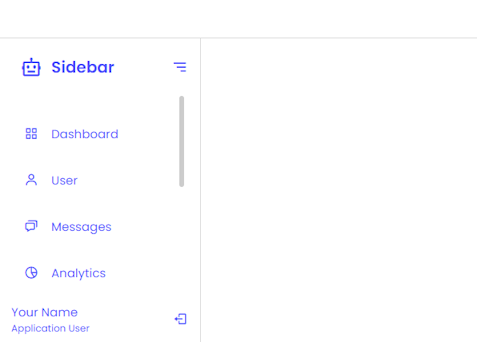
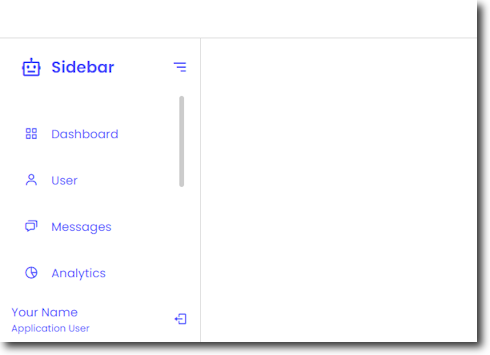
Fix Readme styling.

diff --git a/Readme.md b/Readme.md
@@ -6,8 +6,6 @@ without relying on any specifc framework.
 It applies a simple header element with left sidebar and centre content region.
 Reasonably standard starting point for many dashboards and SPA applications.
 
-<style> img{ box-shadow: 3px 3px 3px #d5d5d5; border: 1px solid #d5d5d5;} </style>
-
 ![Example of the sidebar showing vertical scrollbar](/images/scollbar-example.png?raw=true)
 
 ## Overview
